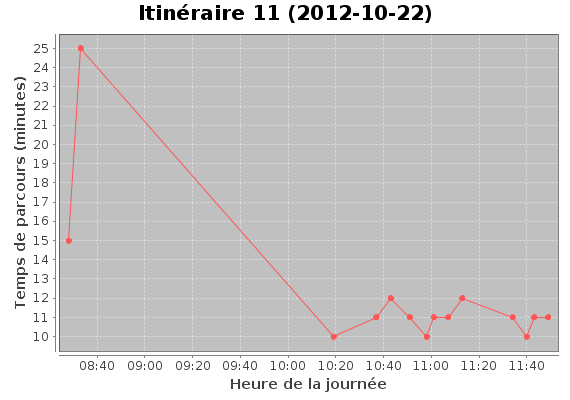
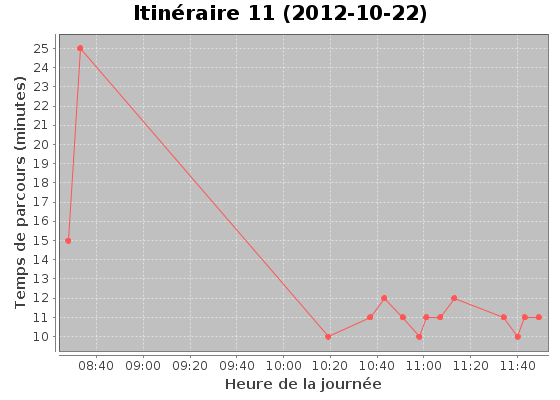
finished the style of stats jsp.

diff --git a/web/style/stats.css b/web/style/stats.css
@@ -44,6 +44,7 @@ root {
 
 #left_col{
     width: 580px;
+    margin-top:20px;
 }
 
 #top_stat{
@@ -53,7 +54,17 @@ root {
 }
 
 #statistique{
+    width:560px;
+    padding:10px;
+    background :url("../images/stats/stat-repeat.png") repeat scroll 0 0 transparent;
+}
+
+#chartPNG{
+    width:560px;
+}
+
+#bottom_stat{
     width:580px;
-    height: 600px;
-    background :url("../images/map-repeat.png") repeat scroll 0 0 transparent;
+    height:20px;
+    background :url("../images/stats/bottom-stat.png") repeat scroll 0 0 transparent;
 }

diff --git a/src/java/utilities/statistics/Stats.java b/src/java/utilities/statistics/Stats.java
@@ -85,7 +85,7 @@ public class Stats {
      */
     private static void saveAsPNG(String title,JFreeChart chart) throws IOException{
         ChartUtilities.saveChartAsPNG(new File("web/images/stats/charts/"+title+".png"),
-                chart, 570, 400);
+                chart, 560, 400);
     }
     
     /**
